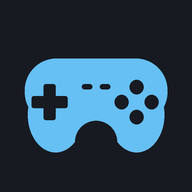
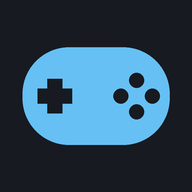
Icono: vuelve el mando original, más alto y sin empuñaduras (1.0.2)
Claude-Session: https://claude.ai/code/session_01AiS7iTAENp52io7SEmw6tN

Changed region(s): [[0.0938, 0.2188, 0.9062, 0.8125]]

diff --git a/sw.js b/sw.js
@@ -2,7 +2,7 @@
    Al publicar una versión nueva hay que cambiar VERSION: así el navegador detecta el cambio y la app avisa. */
 importScripts("js/rawg-image.js");   // rawgSized()
 
-const VERSION = "1.0.1";
+const VERSION = "1.0.2";
 const CACHE = "biblioteca-" + VERSION;          // la app (se renueva con cada versión)
 const COVERS = "biblioteca-portadas-2";         // portadas (sobrevive a las actualizaciones)
 const MAX_COVERS = 800;

diff --git a/README.md b/README.md
@@ -104,7 +104,7 @@ Para publicarla vale cualquier hosting estático con HTTPS. Con GitHub Pages: *S
 
 ### Publicar una versión nueva
 
-Antes de subir cambios hay que **aumentar `VERSION` en `sw.js`** (por ejemplo, de `1.0.1` a `1.0.2`). Ese número es lo que hace que el navegador detecte que hay algo nuevo y muestre el aviso. Sin cambiarlo, quien ya tenga la app instalada seguirá con la versión anterior.
+Antes de subir cambios hay que **aumentar `VERSION` en `sw.js`** (por ejemplo, de `1.0.2` a `1.0.3`). Ese número es lo que hace que el navegador detecte que hay algo nuevo y muestre el aviso. Sin cambiarlo, quien ya tenga la app instalada seguirá con la versión anterior.
 
 Si has añadido o renombrado algún archivo, inclúyelo también en la lista `SHELL` de `sw.js`. Así se guarda en el dispositivo y la app sigue funcionando sin conexión.
 
